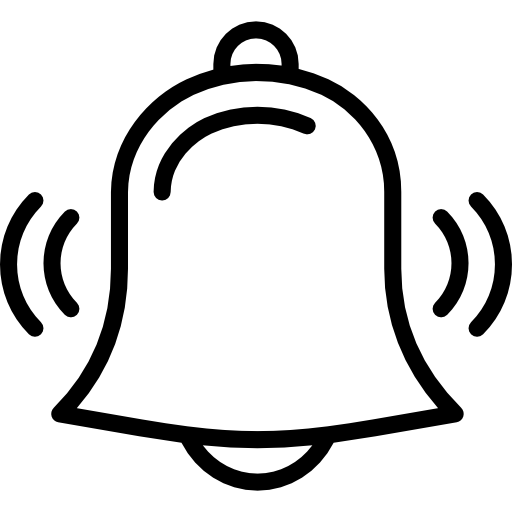
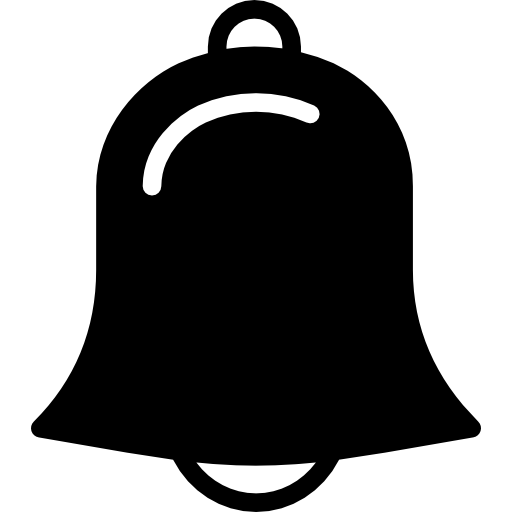
complete BottomTabNavigation

diff --git a/src/screens/MainScreen/MainScreen.js b/src/screens/MainScreen/MainScreen.js
@@ -1,6 +1,6 @@
 import React from 'react';
 import { createBottomTabNavigator } from '@react-navigation/bottom-tabs';
-import { Text, Image, StyleSheet } from 'react-native';
+import { Text, Image,View, StyleSheet, TouchableOpacity } from 'react-native';
 
 import MicroScreen from './App/MicroScreen';
 import NotificationScreen from './App/NotificationScreen';
@@ -11,58 +11,215 @@ import AddScreen from './App/AddScreen';
 import micro from '../../../assets/image/micro.png'
 import home from '../../../assets/image/home.png'
 import add from '../../../assets/image/users.png'
-import notification from '../../../assets/image/alarm1.png'
+import notification from '../../../assets/image/alarm.png'
 import smart from '../../../assets/image/app.png'
+
+import Icon from 'react-native-vector-icons/FontAwesome5';
+import FontAwesome, { SolidIcons, RegularIcons, BrandIcons } from 'react-native-fontawesome';
+import { HoverEffect } from 'react-native-gesture-handler';
 
 
 const Tab = createBottomTabNavigator();
+const CustomTabBarButton = ({ children, onPress }) => {
+  return (
+    <TouchableOpacity
+      style={{
+        top: -30,
+        justifyContent: 'center',
+        alignItems: 'center',
+        shadowColor: '#000',
+        shadowOpacity: 0.15,
+        shadowOffset: {
+          height: 10,
+        }
+      }}
+      onPress={onPress}
+    >
+      <View style={{
+        width: 70,
+        height: 70,
+        borderRadius: 50,
+
+        backgroundColor: '#E32F45'
+      }}>
+        {children}
+      </View>
+    </TouchableOpacity>
+  );
+};
+
 
 const MainScreen = () => {
   return (
-    <Tab.Navigator>
+
+      <Tab.Navigator 
+  
+      screenOptions={{
+        headerShown: false, 
+        tabBarStyle:{
+          position: 'absolute',
+          bottom: 20,
+          // flexDirection: 'row', 
+          justifyContent: 'space-around',
+          alignItems: 'center',
+          marginHorizontal: 20, 
+          backgroundColor: '#fff', 
+          height: 60,
+          borderRadius: 15,
+          shadowColor: '#000',
+          shadowOpacity: 0.15,
+          shadowOffset:{
+            width: 10,
+            height: 10,
+          }
+        }
+      }}
+      >
       <Tab.Screen 
-      name="Dashboard" 
-      component={HomeScreen} 
-      options={{tabBarIcon: () => <Image source={home} style={styles.icon}/>}}
+        name= " ."
+        component={HomeScreen} 
+        options={{
+          tabBarIcon: ({focused}) => (
+            <View style={styles.root}>
+              <Image 
+                source={home}
+                resizeMode='contain'
+                style={{
+                  width: 25,
+                  height: 25,
+                  tintColor: focused ? '#E32F45' : '#748C94'
+                }}
+              />
+              <Text style={{
+                fontStyle: 'normal',
+                marginTop: 5,
+                fontSize: 12,
+                color: focused ? '#E32F45' : '#748C94'
+                }}>HOME</Text>
+            </View>
+          )}}
+        />
+        <Tab.Screen 
+        name = " . "
+        component={AddScreen} 
+        options={{
+          tabBarIcon: ({focused}) => (
+            <View style={styles.root}>
+              <Image 
+                source={add}
+                resizeMode='contain'
+                style={{
+                  width: 25,
+                  height: 25,
+                  tintColor: focused ? '#E32F45' : '#748C94'
+                }}
+              />
+              <Text style={{
+                fontStyle: 'normal',
+                marginTop: 5,
+                fontSize: 12,
+                color: focused ? '#E32F45' : '#748C94'
+                }}>ADD</Text>
+            </View>
+          )}}
+        /> 
+        <Tab.Screen 
+  name=" "
+  component={MicroScreen} 
+  options={{
+    tabBarIcon: ({focused}) => (
+      <Image 
+        source={micro} 
+        style={{
+          width: 40,
+          height: 40,
+          tintColor: focused ? '#fff' : '#fff',
+          marginTop: 10,
+        }}
       />
-      <Tab.Screen 
-      name="Shared"
-      component={AddScreen} 
-      options={{tabBarIcon: () => <Image source={add} style={styles.icon}/>}}
-      />
-      <Tab.Screen 
-      name = " "
-      component={MicroScreen} 
-      options={{tabBarIcon: () => <Image source={micro} style={styles.setting}/>}}
-      /> 
-       <Tab.Screen 
-      name="Smart"
-      component={SmartScreen} 
-      options={{tabBarIcon: () => <Image source={smart} style={styles.icon}/>}}
-      />
-      <Tab.Screen 
-      name= "Notification"
-      component={NotificationScreen} 
-      options={{tabBarIcon: () => <Image source={notification} style={styles.icon}/>}}
-      /> 
-      
-    </Tab.Navigator>
+    ),
+    tabBarButton: (props) => (
+      <CustomTabBarButton {...props} />
+    )
+  }}
+/>
+ 
+         <Tab.Screen 
+        name=" ,"
+        component={SmartScreen} 
+        options={{
+          tabBarIcon: ({focused}) => (
+            <View style={styles.root}>
+              <Image 
+                source={smart}
+                resizeMode='contain'
+                style={{
+                  tintColor: focused ? '#E32F45' : '#748C94',
+                  ... styles.icon
+                }}
+              />
+              <Text style={{
+                fontStyle: 'normal',
+                marginTop: 5,
+                fontSize: 12,
+                color: focused ? '#E32F45' : '#748C94'
+                }}>SMART</Text>
+            </View>
+          )}}
+        />
+        <Tab.Screen 
+        name= ","
+        component={NotificationScreen} 
+        options={{
+          tabBarIcon: ({focused}) => (
+            <View style={styles.root}>
+              <Image 
+                source={notification}
+                resizeMode='contain'
+                style={{
+                  tintColor: focused ? '#E32F45' : '#748C94',
+                  ... styles.icon
+                }}
+              />
+              <Text style={{
+                fontStyle: 'normal',
+                marginTop: 5,
+                fontSize: 12,
+                color: focused ? '#E32F45' : '#748C94',
+                flexDirection: 'row',
+                justifyContent: 'space-evenly'
+                }}>NOTIFICATION</Text>
+            </View>
+          )}}
+        /> 
+        
+      </Tab.Navigator>
+   
   );
 };
 const styles = StyleSheet.create({
+  root:{
+    
+    alignItems: 'center',
+    justifyContent: 'center',
+    top: 10,
+    marginHorizontal: -10,
+  },
   icon:{
     width: 25,
     height: 25,
+  
+   
   },
   setting:{
     width: 50,
     height: 50,
     borderRadius: 30,
-    backgroundColor: '#3FD2C7',
+    
     justifyContent: 'center',
     alignItems: 'center',
     marginTop:  -30,
-
+     
   }
 })
 

diff --git a/src/screens/MainScreen/App/MicroScreen/MicroScreen.js b/src/screens/MainScreen/App/MicroScreen/MicroScreen.js
@@ -1,55 +1,12 @@
-import React, { useState, useEffect } from 'react';
-import { View, TouchableOpacity, Text } from 'react-native';
-import { request, PERMISSIONS } from 'react-native-permissions';
-import { AudioRecorderPlayer, AudioUtils } from 'react-native-audio-recorder-player';
+import { View, Text } from 'react-native'
+import React from 'react'
 
 const MicroScreen = () => {
-  const [isRecording, setRecording] = useState(false);
-  const audioRecorderPlayer = new AudioRecorderPlayer();
-  const audioPath = AudioUtils.DocumentDirectoryPath + '/test.aac';
-
-  useEffect(() => {
-    requestPermission();
-  }, []);
-
-  const requestPermission = async () => {
-    try {
-      const result = await request(PERMISSIONS.ANDROID.RECORD_AUDIO);
-      if (result === 'granted') {
-        console.log('Permission granted');
-      } else {
-        console.log('Permission denied');
-      }
-    } catch (error) {
-      console.error('Error requesting permission:', error);
-    }
-  };
-
-  const handleToggleRecording = async () => {
-    try {
-      if (isRecording) {
-        // Stop recording
-        const result = await audioRecorderPlayer.stopRecorder();
-        setRecording(false);
-        console.log(result);
-      } else {
-        // Start recording
-        const result = await audioRecorderPlayer.startRecorder(audioPath);
-        setRecording(true);
-        console.log(result);
-      }
-    } catch (error) {
-      console.error('Error:', error);
-    }
-  };
-
   return (
     <View>
-      <TouchableOpacity onPress={handleToggleRecording}>
-        <Text>{isRecording ? 'Stop Recording' : 'Start Recording'}</Text>
-      </TouchableOpacity>
+      <Text>MicroScreen</Text>
     </View>
-  );
-};
+  )
+}
 
-export default MicroScreen;
+export default MicroScreen

diff --git a/src/screens/MainScreen/App/HomeScreen/HomeScreen.js b/src/screens/MainScreen/App/HomeScreen/HomeScreen.js
@@ -1,10 +1,9 @@
-
-
 import React, { useState } from 'react';
-import { View, SafeAreaView, StyleSheet, Text, ImageBackground } from 'react-native';
-
+import { View, SafeAreaView,Image, StyleSheet, Text, ImageBackground } from 'react-native';
+import menu from '../../../../../assets/image/menu.png'
 
 import SwitchComponent from '../../../../components/Switch/Switch';
+
 
 const HomeAppScreen = () => {
   const [isSwitch1Enabled, setSwitch1Enabled] = useState(false);
@@ -16,6 +15,7 @@ const HomeAppScreen = () => {
   return (
     
       <SafeAreaView style={styles.safeAreaView}>
+        <Image source={menu} style={styles.menu}/>
         <View style={styles.container}>
         <View style={styles.row}>
             <SwitchComponent
@@ -54,5 +54,13 @@ const styles = StyleSheet.create({
     flexDirection: 'row',
     alignItems: 'center',
   },
+  menu:{
+    position: 'absolute',
+    width: 25,
+    height: 25,
+    top: 10,
+    left: 5,
+    padding: 10,
+  }
 });
 export default HomeAppScreen;

diff --git a/src/navigation/index.js b/src/navigation/index.js
@@ -18,7 +18,7 @@ const Stack = createNativeStackNavigator();
 const Navigation = ({ navigation }) => {
   return (
     <NavigationContainer>
-      <Stack.Navigator screenOptions={{headerShown: false}}>
+      <Stack.Navigator   screenOptions={{headerShown: false}}>
         <Stack.Screen name="SignIn" component={SignInScreen} />
         <Stack.Screen name="Login" component={LoginScreen}/>
         <Stack.Screen name="ConfirmEmail" component={ConfirmEmailScreen}/>
